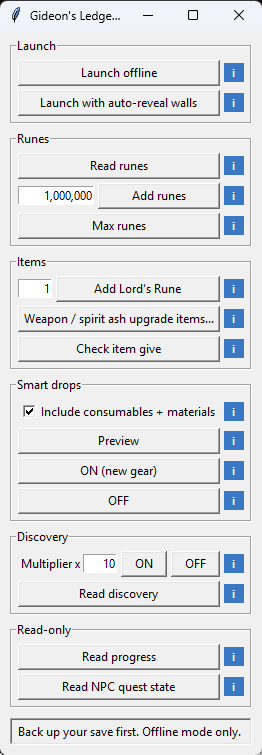
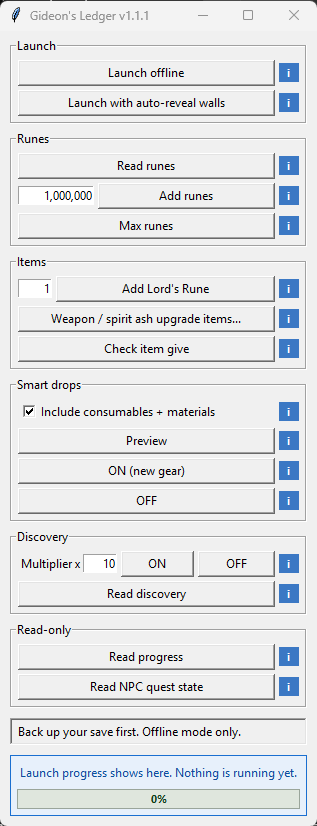
Launch progress panel: blue info text + green progress bar; sign-in wait for Steam

diff --git a/gideons_ledger.py b/gideons_ledger.py
@@ -544,6 +544,26 @@ def show_progress():
     return "Progress saved to progress.txt: " + text.splitlines()[0]
 
 
+def subprocess_out(cmd):  # stdout of a hidden-window command, lowercased
+    import subprocess
+    return subprocess.run(cmd, capture_output=True, creationflags=0x08000000).stdout.lower()
+
+
+class Bar(tk.Canvas):
+    """Plain green progress bar, 0-100."""
+    def __init__(self, parent):
+        super().__init__(parent, width=1, height=18, bg="#dfe6dd", highlightthickness=1, highlightbackground="#9aa59a")
+        self.pct = 0
+        self.bind("<Configure>", lambda _: self.set(self.pct))
+
+    def set(self, pct):
+        self.pct = max(0, min(100, pct))
+        self.delete("all")
+        w = self.winfo_width()
+        self.create_rectangle(0, 0, w * self.pct / 100, 20, fill="#2fa84f", width=0)
+        self.create_text(w / 2, 9, text=f"{int(self.pct)}%", fill="#103d1c" if self.pct < 55 else "white", font=("Segoe UI", 8, "bold"))
+
+
 class Tip(tk.Label):
     """Small (i) icon; hover for a tooltip."""
     def __init__(self, parent, text):
@@ -574,7 +594,7 @@ def main():
     amount = tk.StringVar(value="1,000,000")
     amount.trace_add("write", lambda *_: commas(amount.get()) != amount.get() and amount.set(commas(amount.get())))
 
-    msgs, busy = queue.Queue(), threading.Lock()
+    msgs, busy, prog = queue.Queue(), threading.Lock(), queue.Queue()  # prog: (info text, percent or None) from worker threads
 
     def run(fn):  # memory work goes to a thread so the window never freezes; the worker only touches the queue
         if not busy.acquire(blocking=False):
@@ -595,6 +615,14 @@ def main():
         try:
             while True:
                 out.set(msgs.get_nowait())
+        except queue.Empty:
+            pass
+        try:
+            while True:
+                text, pct = prog.get_nowait()
+                info.config(text=text)
+                if pct is not None:
+                    bar.set(pct)
         except queue.Empty:
             pass
         root.after(100, poll)
@@ -646,40 +674,88 @@ def main():
             _save_text(saved, d)
             return d
 
-    def launch():
+    def report(text, pct=None):
+        prog.put((text, pct))
+
+    def game_running():
+        return b"eldenring.exe" in subprocess_out(["tasklist", "/FI", "IMAGENAME eq eldenring.exe"])
+
+    def await_game(start):  # worker thread: bar creeps toward 95% on a typical-time estimate, jumps to 100% when the game process exists
+        t = time.time()
+        while (el := time.time() - t) < 90:
+            if game_running():
+                report("Elden Ring is running. Stay offline.", 100)
+                return True
+            report("Elden Ring is starting. Loading can take a minute.", start + (95 - start) * min(el / 30, 1))
+            time.sleep(1)
+        report("Launched, but the game has not appeared yet. Give it a little longer.", 95)
+        return False
+
+    def start_offline(game_dir):
         import os, subprocess
-        game_dir = game_folder()
-        if not game_dir:
-            out.set("Launch cancelled: eldenring.exe not found.")
-            return
+        report("Starting Elden Ring directly, so Easy Anti-Cheat never loads...", 30)
         env = {**os.environ, "SteamAppId": "1245620", "SteamGameId": "1245620"}
         try:
             subprocess.Popen([game_dir + r"\eldenring.exe"], cwd=game_dir, env=env)
-            out.set("Launched offline (no Easy Anti-Cheat). Stay offline.")
         except Exception as e:
-            out.set(f"Launch failed: {e}")
+            report(f"Launch failed: {e}", 0)
+            return f"Launch failed: {e}"
+        await_game(40)
+        return "Launched offline (no Easy Anti-Cheat). Stay offline."
+
+    def launch():  # folder picker must run on the UI thread, so resolve the folder here and do the rest in a worker
+        game_dir = game_folder()
+        if not game_dir:
+            report("Launch cancelled: eldenring.exe not found.", 0)
+            out.set("Launch cancelled: eldenring.exe not found.")
+            return
+        run(lambda: start_offline(game_dir))
 
     def launch_walls():  # Mod Engine 3 + walls.me3 (auto-reveal illusory walls); needs Steam running, so start it if it isn't
         import os, subprocess
         here = _app_dir()
+        report("Checking for Mod Engine 3 and walls.me3...", 5)
 
         def steam_up():
-            return b"steam.exe" in subprocess.run(["tasklist", "/FI", "IMAGENAME eq steam.exe"], capture_output=True,
-                                                  creationflags=0x08000000).stdout.lower()
-        if not steam_up():
+            return b"steam.exe" in subprocess_out(["tasklist", "/FI", "IMAGENAME eq steam.exe"])
+
+        def steam_user():  # nonzero once Steam has a signed-in user (written by the running client)
+            import winreg
+            try:
+                with winreg.OpenKey(winreg.HKEY_CURRENT_USER, r"Software\Valve\Steam\ActiveProcess") as k:
+                    return winreg.QueryValueEx(k, "ActiveUser")[0]
+            except OSError:
+                return 0
+        me3 = os.path.join(here, "me3", "bin", "me3.exe")
+        missing = [n for n, f in (("me3/bin/me3.exe", me3), ("walls.me3", os.path.join(here, "walls.me3"))) if not os.path.exists(f)]
+        if missing:  # check before starting Steam so a bad folder fails fast and says where it looked
+            report(f"Missing: {', '.join(missing)}. Looked in {here}", 0)
+            return f"Not found next to the app: {', '.join(missing)}. Looked in {here}"
+        if steam_up():
+            report("Steam is already running.", 60)
+        else:
+            report("Steam is not running. Starting it...", 10)
             os.startfile("steam://open/main")
-            for _ in range(60):  # up to 60s for Steam to appear, then a few more seconds to finish signing in
+            for _ in range(60):  # up to 60s for Steam to appear
                 time.sleep(1)
                 if steam_up():
-                    time.sleep(8)
                     break
             else:
+                report("Steam did not start. Start Steam yourself, then click again.", 0)
                 return "Steam did not start. Start Steam yourself, then click again."
+            for i in range(30):  # then until it reports a signed-in user (~15s typical); bar fills 30-60% on that estimate
+                if steam_user():
+                    break
+                report("Steam is starting. Waiting for it to sign in...", 30 + 30 * min(i / 15, 1))
+                time.sleep(1)
+        report("Starting Mod Engine 3 with auto-reveal walls...", 65)
         try:
-            subprocess.Popen([os.path.join(here, "me3", "bin", "me3.exe"), "launch", "-p", os.path.join(here, "walls.me3")], cwd=here)
-            return "Launching with auto-reveal walls. Stay offline."
+            subprocess.Popen([me3, "launch", "-p", os.path.join(here, "walls.me3")], cwd=here)
         except Exception as e:
+            report(f"Launch failed: {e}", 0)
             return f"Launch failed: {e}"
+        await_game(70)
+        return "Launching with auto-reveal walls. Stay offline."
 
     def section(title):
         f = tk.LabelFrame(root, text=title, padx=6, pady=4)
@@ -777,7 +853,14 @@ def main():
     btn(f, "Read progress", lambda: run(show_progress), "Story flags, endings, Great Runes, bosses and graces per region. Needs data/event_flags.json (see README).")
     btn(f, "Read NPC quest state", lambda: run(show_quests), "What each NPC would say right now. Needs data/npc_steps.json built from your own game files (see README).")
 
-    tk.Label(root, textvariable=out, wraplength=300, justify="left", relief="sunken", anchor="w", padx=6, pady=4).pack(fill="x", padx=10, pady=10)
+    tk.Label(root, textvariable=out, wraplength=300, justify="left", relief="sunken", anchor="w", padx=6, pady=4).pack(fill="x", padx=10, pady=(10, 0))
+    f = tk.Frame(root, bg="#e7f0fb", highlightthickness=1, highlightbackground="#1a6fd0", padx=6, pady=6)
+    f.pack(fill="x", padx=10, pady=10)
+    info = tk.Label(f, text="Launch progress shows here. Nothing is running yet.", bg="#e7f0fb", fg="#0b4f9c", wraplength=290,
+                    justify="left", anchor="w", font=("Segoe UI", 9))
+    info.pack(fill="x", pady=(0, 6))
+    bar = Bar(f)
+    bar.pack(fill="x")
     root.mainloop()
 
 
